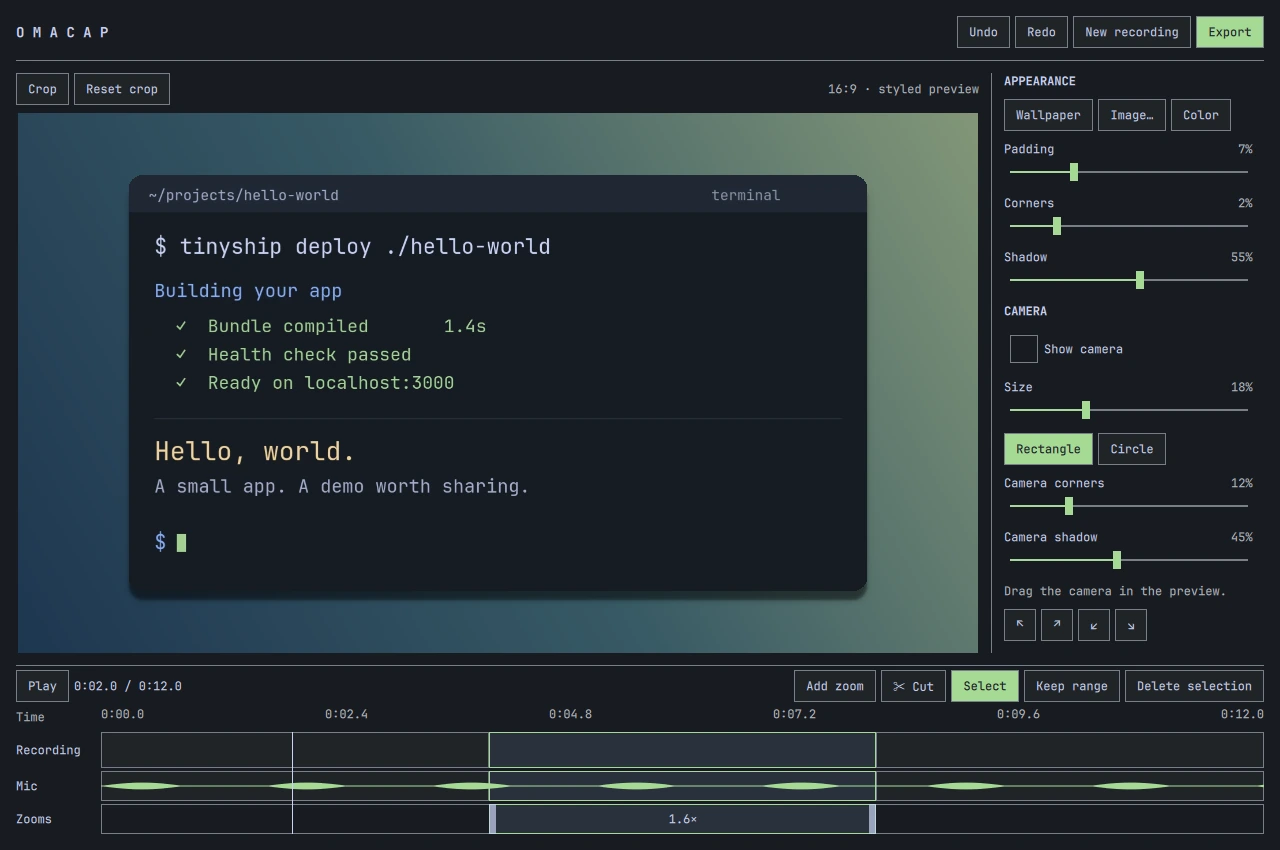
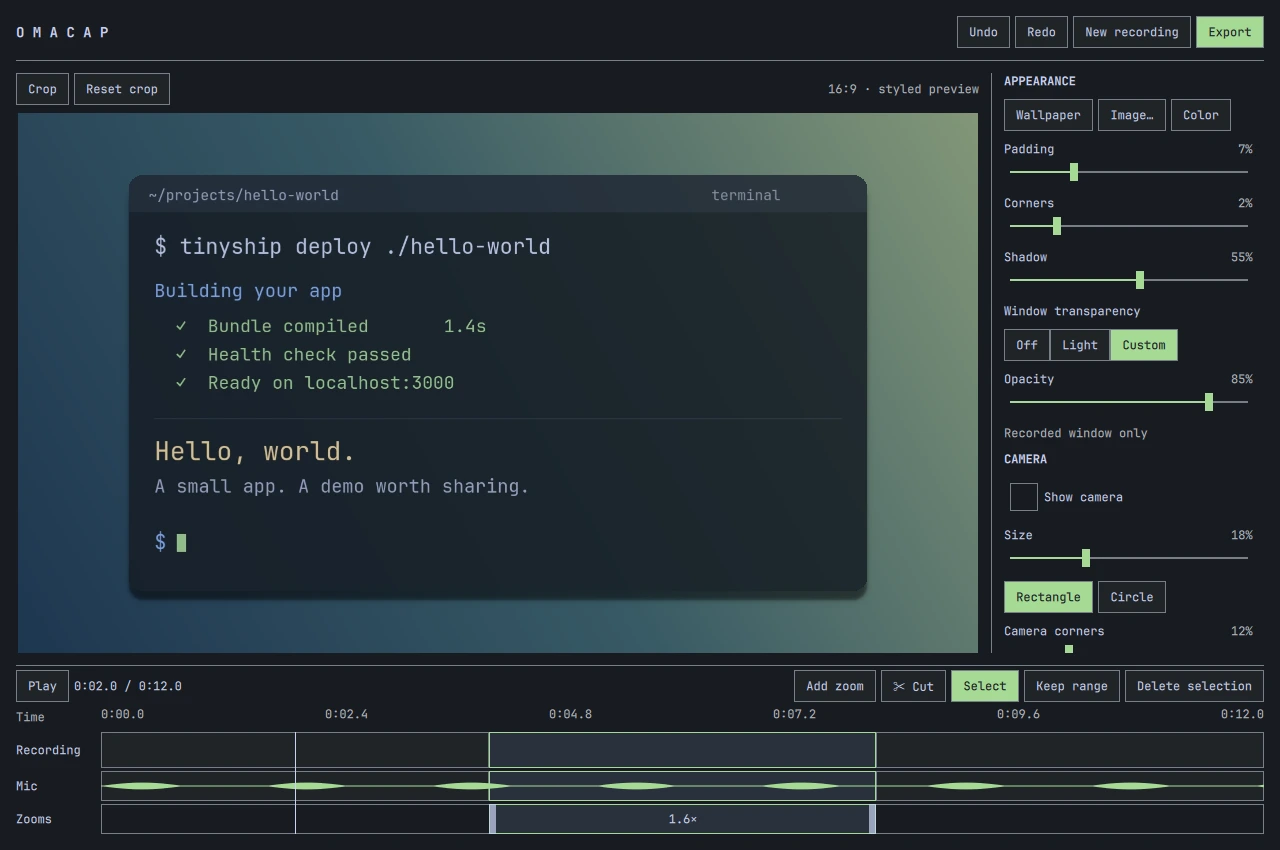
feat: add editable window transparency (#3)

diff --git a/qml/Composition.qml b/qml/Composition.qml
@@ -19,6 +19,7 @@ Item {
     property real frameH: frameW / ratio
     property real frameX: (width - frameW) / 2
     property real frameY: (height - frameH) / 2
+    property real windowOpacity: edit.windowTransparency === "light" ? 0.96 : edit.windowTransparency === "custom" ? (edit.windowOpacity ?? 0.96) : 1
     property real cameraW: (edit.cameraSize ?? 0.18) * width
     property real cameraH: cameraW * (edit.cameraShape === "circle" ? 1 : 0.75)
     property real cameraX: Math.min(width - cameraW, Math.max(0, (edit.cameraX ?? 0.79) * width))
@@ -41,21 +42,36 @@ Item {
         asynchronous: false
     }
 
-    Rectangle {
-        id: shape
-
-        x: scene.frameX
-        y: scene.frameY
-        width: scene.frameW
-        height: scene.frameH
-        radius: (scene.edit.corners ?? 0.015) * scene.width
-        color: "white"
+    // A padded, inverse mask keeps the shadow outside the window. No opaque
+    // backing may sit behind the recording when its opacity is reduced.
+    Item {
+        id: shadowCaster
+        property real margin: 32 + scene.width * 0.01
+        x: scene.frameX - margin
+        y: scene.frameY - margin
+        width: scene.frameW + 2 * margin
+        height: scene.frameH + 2 * margin
         visible: false
+        layer.enabled: true
+
+        Rectangle {
+            id: shape
+            x: shadowCaster.margin
+            y: shadowCaster.margin
+            width: scene.frameW
+            height: scene.frameH
+            radius: (scene.edit.corners ?? 0.015) * scene.width
+            color: "white"
+        }
     }
 
     MultiEffect {
-        source: shape
-        anchors.fill: shape
+        source: shadowCaster
+        anchors.fill: shadowCaster
+        autoPaddingEnabled: false
+        maskEnabled: true
+        maskSource: shadowCaster
+        maskInverted: true
         shadowEnabled: true
         shadowBlur: 0.6
         shadowOpacity: scene.edit.shadow ?? 0.45
@@ -97,6 +113,7 @@ Item {
     MultiEffect {
         source: viewport
         anchors.fill: viewport
+        opacity: scene.windowOpacity
         maskEnabled: true
         maskSource: mask
         autoPaddingEnabled: false

diff --git a/qml/Main.qml b/qml/Main.qml
@@ -722,6 +722,42 @@ ApplicationWindow {
                         }
 
                         Label {
+                            text: "Window transparency"
+                        }
+
+                        RowLayout {
+                            spacing: 0
+
+                            Repeater {
+                                model: ["Off", "Light", "Custom"]
+
+                                FlatButton {
+                                    required property string modelData
+                                    objectName: "transparency" + modelData
+                                    text: modelData
+                                    primary: (backend.edit.windowTransparency ?? "off") === modelData.toLowerCase()
+                                    onClicked: backend.setValue("windowTransparency", modelData.toLowerCase())
+                                }
+                            }
+                        }
+
+                        Setting {
+                            objectName: "windowOpacitySetting"
+                            Layout.fillWidth: true
+                            visible: backend.edit.windowTransparency === "custom"
+                            label: "Opacity"
+                            fieldName: "windowOpacity"
+                            stepSize: 0.01
+                            current: backend.edit.windowOpacity ?? 0.96
+                            suffix: "%"
+                        }
+
+                        Label {
+                            text: "Recorded window only"
+                            color: theme.colors.dark_foreground
+                        }
+
+                        Label {
                             text: "CAMERA"
                             font.bold: true
                         }

diff --git a/qml/Setting.qml b/qml/Setting.qml
@@ -9,6 +9,7 @@ ColumnLayout {
     property real from: 0
     property real to: 1
     property real current: 0
+    property real stepSize: 0
     property string suffix: ""
     spacing: 2
     RowLayout {
@@ -27,6 +28,7 @@ ColumnLayout {
         from: field.from
         to: field.to
         value: field.current
+        stepSize: field.stepSize
         onPressedChanged: pressed ? backend.beginEdit() : backend.endEdit()
         onMoved: backend.setValue(field.fieldName, value)
     }

diff --git a/tests/integration.cpp b/tests/integration.cpp
@@ -451,6 +451,146 @@ class Integration : public QObject {
         QVERIFY2(error < 4, qPrintable(QString::number(error)));
         b.discard();
     }
+    void windowTransparency() {
+        QQmlEngine engine;
+        auto frames = new Frames;
+        QImage screen(640, 360, QImage::Format_RGB32);
+        screen.fill(QColor(200, 40, 20));
+        QImage camera(160, 120, QImage::Format_RGB32);
+        camera.fill(QColor(20, 60, 220));
+        frames->put(false, screen);
+        frames->put(true, camera);
+        engine.addImageProvider("frames", frames);
+        QQmlComponent component(&engine, QUrl("qrc:/qml/Composition.qml"));
+        QQuickWindow win;
+        win.resize(640, 360);
+        auto scene = qobject_cast<QQuickItem *>(component.create());
+        QVERIFY2(scene, qPrintable(component.errorString()));
+        scene->setParentItem(win.contentItem());
+        scene->setSize(QSizeF(640, 360));
+        scene->setProperty("screenSource", "image://frames/screen/test");
+        scene->setProperty("cameraSource", "image://frames/camera/test");
+        win.show();
+        QVERIFY(QTest::qWaitForWindowExposed(&win));
+        Edit edit;
+        edit.color = "#40a060";
+        edit.shadow = .7;
+        edit.corners = .03;
+        QColor originalShadow;
+        const QList<QPair<QString, double>> cases{
+            {"off", 1}, {"light", .96}, {"custom", .4}, {"custom", 0}};
+        for (const auto &[mode, opacity] : cases) {
+            edit.windowTransparency = mode;
+            edit.windowOpacity = opacity;
+            scene->setProperty("edit", edit.json().toVariantMap());
+            QTest::qWait(50);
+            auto grab = scene->grabToImage(QSize(640, 360));
+            QVERIFY(grab);
+            QSignalSpy ready(grab.data(), &QQuickItemGrabResult::ready);
+            QVERIFY(ready.wait(5000));
+            const auto image = grab->image();
+            const auto actual = image.pixelColor(240, 180);
+            const QColor bg(edit.color), source = screen.pixelColor(0, 0);
+            for (auto channel : {&QColor::red, &QColor::green, &QColor::blue}) {
+                const int expected =
+                    qRound((source.*channel)() * opacity + (bg.*channel)() * (1 - opacity));
+                QVERIFY2(std::abs((actual.*channel)() - expected) <= 2,
+                         qPrintable(mode + " expected " + QString::number(expected) + " got " +
+                                    actual.name()));
+            }
+            // Camera pixels and the exterior shadow do not fade with the recording.
+            QCOMPARE(image.pixelColor(560, 310), camera.pixelColor(0, 0));
+            QCOMPARE(image.pixelColor(10, 10), bg);
+            const int belowWindow = qRound(scene->property("frameY").toDouble() +
+                                           scene->property("frameH").toDouble()) +
+                                    8;
+            const auto shadow = image.pixelColor(320, belowWindow);
+            if (mode == "off") {
+                originalShadow = shadow;
+                QVERIFY(shadow.green() < bg.green() - 2);
+            } else
+                QCOMPARE(shadow, originalShadow);
+            image.save("tests/out/preview-transparency-" + mode +
+                       QString::number(qRound(opacity * 100)) + ".png");
+        }
+        delete scene;
+    }
+    void transparencyControls() {
+        Theme theme;
+        QQmlApplicationEngine engine;
+        auto frames = new Frames;
+        engine.addImageProvider("frames", frames);
+        Backend b(&theme, frames);
+        engine.rootContext()->setContextProperty("theme", &theme);
+        engine.rootContext()->setContextProperty("backend", &b);
+        engine.load(QUrl("qrc:/qml/Main.qml"));
+        auto win = qobject_cast<QQuickWindow *>(engine.rootObjects().value(0));
+        QVERIFY(win);
+        auto cleanup = qScopeGuard([&] { delete win; });
+        QVERIFY(QTest::qWaitForWindowExposed(win));
+        b.newSession();
+        b.status("editor");
+        win->resize(1280, 900);
+        QTest::qWait(100);
+        auto setting = win->findChild<QQuickItem *>("windowOpacitySetting");
+        QVERIFY(setting);
+        auto click = [&](const QString &name) {
+            // Repeater delegates are visual children, not QObject children of the window.
+            std::function<QQuickItem *(QQuickItem *)> find = [&](QQuickItem *item) -> QQuickItem * {
+                if (item->objectName() == name)
+                    return item;
+                for (auto child : item->childItems())
+                    if (auto match = find(child))
+                        return match;
+                return nullptr;
+            };
+            auto button = find(win->contentItem());
+            QVERIFY(button);
+            QTest::mouseClick(
+                win, Qt::LeftButton, Qt::NoModifier,
+                button->mapToScene(QPointF(button->width() / 2, button->height() / 2)).toPoint());
+            QTest::qWait(40);
+        };
+        QCOMPARE(b.state.windowTransparency, QString("off"));
+        QVERIFY(!setting->isVisible());
+        click("transparencyLight");
+        QCOMPARE(b.state.windowTransparency, QString("light"));
+        QVERIFY(!setting->isVisible());
+        click("transparencyCustom");
+        QCOMPARE(b.state.windowTransparency, QString("custom"));
+        QVERIFY(setting->isVisible());
+        QQuickItem *slider = nullptr;
+        for (auto child : setting->childItems())
+            if (child->metaObject()->indexOfProperty("handle") >= 0)
+                slider = child;
+        QVERIFY(slider);
+        const auto start = slider->mapToScene(QPointF(slider->width() * .8, slider->height() / 2));
+        const auto end = slider->mapToScene(QPointF(slider->width() * .4, slider->height() / 2));
+        QTest::mousePress(win, Qt::LeftButton, Qt::NoModifier, start.toPoint());
+        QTest::mouseMove(win, end.toPoint(), 30);
+        QTest::mouseRelease(win, Qt::LeftButton, Qt::NoModifier, end.toPoint());
+        QVERIFY(b.state.windowOpacity > .3 && b.state.windowOpacity < .5);
+        const double custom = b.state.windowOpacity;
+        b.undo();
+        QCOMPARE(b.state.windowOpacity, .96);
+        b.redo();
+        QCOMPARE(b.state.windowOpacity, custom);
+        click("transparencyOff");
+        QVERIFY(!setting->isVisible());
+        click("transparencyCustom");
+        QCOMPARE(b.state.windowOpacity, custom);
+        QCOMPARE(Edit::fromJson(b.state.json()).windowOpacity, custom);
+        QCOMPARE(Edit::fromJson(b.state.json()).windowTransparency, QString("custom"));
+        QCOMPARE(Edit::fromJson({}).windowTransparency, QString("off"));
+        b.setValue("windowOpacity", -1);
+        QCOMPARE(b.state.windowOpacity, 0.);
+        b.setValue("windowOpacity", 2);
+        QCOMPARE(b.state.windowOpacity, 1.);
+        b.discard();
+        b.newSession();
+        QCOMPARE(b.state.windowTransparency, QString("off"));
+        b.discard();
+    }
     void styledPreviewMatchesExport() {
         Theme theme;
         QQmlApplicationEngine engine;
@@ -479,8 +619,19 @@ class Integration : public QObject {
         QTRY_VERIFY_WITH_TIMEOUT(!b.seeking && !b.cameraSource().isEmpty(), 3000);
         auto composition = win->findChild<QQuickItem *>("composition");
         QVERIFY(composition);
-        for (const auto &shape : {QString("rectangle"), QString("circle")}) {
-            b.setValue("cameraShape", shape);
+        struct Style {
+            QString mode, shape;
+            bool gif;
+            int width;
+        };
+        for (const auto &style : QList<Style>{{"off", "rectangle", false, 1920},
+                                              {"light", "circle", false, 3840},
+                                              {"custom", "rectangle", false, 1920},
+                                              {"custom", "circle", true, 640}}) {
+            const auto name = style.mode + "-" + style.shape;
+            b.setValue("cameraShape", style.shape);
+            b.setValue("windowTransparency", style.mode);
+            b.setValue("windowOpacity", .45);
             QTest::qWait(100);
             auto grab = composition->grabToImage(QSize(1920, 1080));
             QVERIFY(grab);
@@ -488,10 +639,10 @@ class Integration : public QObject {
             QVERIFY(ready.wait(5000));
             const auto preview = grab->image();
             QVERIFY(!preview.isNull());
-            const QString output =
-                QDir::current().absoluteFilePath("tests/out/parity-" + shape + ".mp4");
+            const QString output = QDir::current().absoluteFilePath("tests/out/parity-" + name +
+                                                                    (style.gif ? ".gif" : ".mp4"));
             QFile::remove(output);
-            b.startExport(output, false, shape == "circle" ? 3840 : 1920, 30, 18, 0);
+            b.startExport(output, style.gif, style.width, 30, 18, b.duration());
             QTRY_COMPARE_WITH_TIMEOUT(b.phase(), QString("editor"), 30000);
             QProcess ffmpeg;
             ffmpeg.start("ffmpeg", {"-v", "error", "-i", output, "-frames:v", "1", "-vf",
@@ -507,9 +658,9 @@ class Integration : public QObject {
                              std::abs(p.blue() - e.blue());
                 }
             error /= preview.width() * preview.height() * 3. / 16;
-            qInfo() << "PREVIEW_EXPORT" << shape << "mean_channel_error=" << error;
-            preview.save("tests/out/preview-" + shape + ".png");
-            exported.save("tests/out/export-" + shape + ".png");
+            qInfo() << "PREVIEW_EXPORT" << name << "mean_channel_error=" << error;
+            preview.save("tests/out/preview-" + name + ".png");
+            exported.save("tests/out/export-" + name + ".png");
             QVERIFY2(error < 5, qPrintable(QString::number(error)));
         }
         b.discard();
@@ -565,6 +716,8 @@ class Integration : public QObject {
             b.loadFile(QDir::current().absoluteFilePath("tests/out/delayed.mkv"));
             QTRY_COMPARE_WITH_TIMEOUT(b.phase(), QString("editor"), 10000);
             b.setValue("padding", .123);
+            b.setValue("windowTransparency", "custom");
+            b.setValue("windowOpacity", .73);
             saved = b.sessionPath();
         }
         {
@@ -573,6 +726,8 @@ class Integration : public QObject {
             b.recover();
             QTRY_COMPARE_WITH_TIMEOUT(b.phase(), QString("editor"), 5000);
             QCOMPARE(b.edit()["padding"].toDouble(), .123);
+            QCOMPARE(b.state.windowTransparency, QString("custom"));
+            QCOMPARE(b.state.windowOpacity, .73);
             QVERIFY(b.dirty());
             b.discard();
             QVERIFY(!QDir(saved).exists());

diff --git a/src/backend.cpp b/src/backend.cpp
@@ -748,10 +748,11 @@ void Backend::edited() {
 void Backend::setValue(QString k, QVariant v) {
     if (m_phase != "editor")
         return;
-    static const QStringList allowed{"padding",       "corners",     "shadow", "cameraSize",
-                                     "cameraX",       "cameraY",     "camera", "mic",
-                                     "desktop",       "crop",        "color",  "cameraShape",
-                                     "cameraCorners", "cameraShadow"};
+    static const QStringList allowed{
+        "padding",      "corners",     "shadow",        "cameraSize",   "cameraX",
+        "cameraY",      "camera",      "mic",           "desktop",      "crop",
+        "color",        "cameraShape", "cameraCorners", "cameraShadow", "windowTransparency",
+        "windowOpacity"};
     if (!allowed.contains(k))
         return;
     auto o = state.json();

diff --git a/src/model.cpp b/src/model.cpp
@@ -104,6 +104,8 @@ QJsonObject Edit::json() const {
             {"padding", padding},
             {"corners", corners},
             {"shadow", shadow},
+            {"windowTransparency", windowTransparency},
+            {"windowOpacity", windowOpacity},
             {"cameraShape", cameraShape},
             {"cameraCorners", cameraCorners},
             {"cameraShadow", cameraShadow},
@@ -155,6 +157,10 @@ Edit Edit::fromJson(const QJsonObject &o) {
     NUM(padding, 0., .25);
     NUM(corners, 0., .08);
     NUM(shadow, 0., 1.);
+    NUM(windowOpacity, 0., 1.);
+    const auto transparency = o["windowTransparency"].toString();
+    if (transparency == "light" || transparency == "custom")
+        e.windowTransparency = transparency;
     NUM(cameraSize, .08, .4);
     NUM(cameraCorners, 0., .5);
     NUM(cameraShadow, 0., 1.);

diff --git a/src/model.h b/src/model.h
@@ -19,6 +19,8 @@ struct Edit {
     double padding = .07, corners = .015, shadow = .45, cameraSize = .18, cameraX = .79,
            cameraY = .75, cameraCorners = .12, cameraShadow = .45;
     QString cameraShape = "rectangle";
+    QString windowTransparency = "off";
+    double windowOpacity = .96;
     bool camera = true, mic = true, desktop = true;
     QString background, color = "#182638";
     double length() const;

diff --git a/README.md b/README.md
@@ -6,7 +6,7 @@ Record a window, clean up the take, and give it a background, padding and smooth
 
 [Install](#install) · [How to use it](#record-and-edit) · [MIT license](https://github.com/allisonmahmood/omacap/blob/main/LICENSE)
 
-![OmaCap Studio showing a terminal demo with a wallpaper background, shadow, appearance controls and a zoom section on the timeline](docs/images/studio.webp)
+![OmaCap Studio showing a translucent terminal demo over a wallpaper, custom opacity controls and a zoom section on the timeline](docs/images/studio.webp)
 
 *The real OmaCap editor, shown with a generated terminal demo.*
 
@@ -45,6 +45,8 @@ Choose your microphone, camera and desktop audio options. Click **Select source 
 ### 2. Crop, style and trim
 
 Click **Crop** and drag over the part you want to keep. Set the background, padding, corners and shadow while watching the preview. If you recorded a camera, choose its shape, corners and shadow, then drag it into place.
+
+**Window transparency** reveals the chosen background through the recording. Choose **Off**, **Light** for 96% opacity, or **Custom** to show an opacity slider. The camera stays opaque. The treatment appears in both MP4 and GIF exports and starts off for each new recording.
 
 Drag across the recording or its audio waveforms to select a range. **Keep range** trims the ends; **Delete selection** removes that range. Click **✂ Cut** and click a track to split a clip. Return to **Select**, click a clip, and press Delete to remove it. All recorded tracks stay linked.
 
